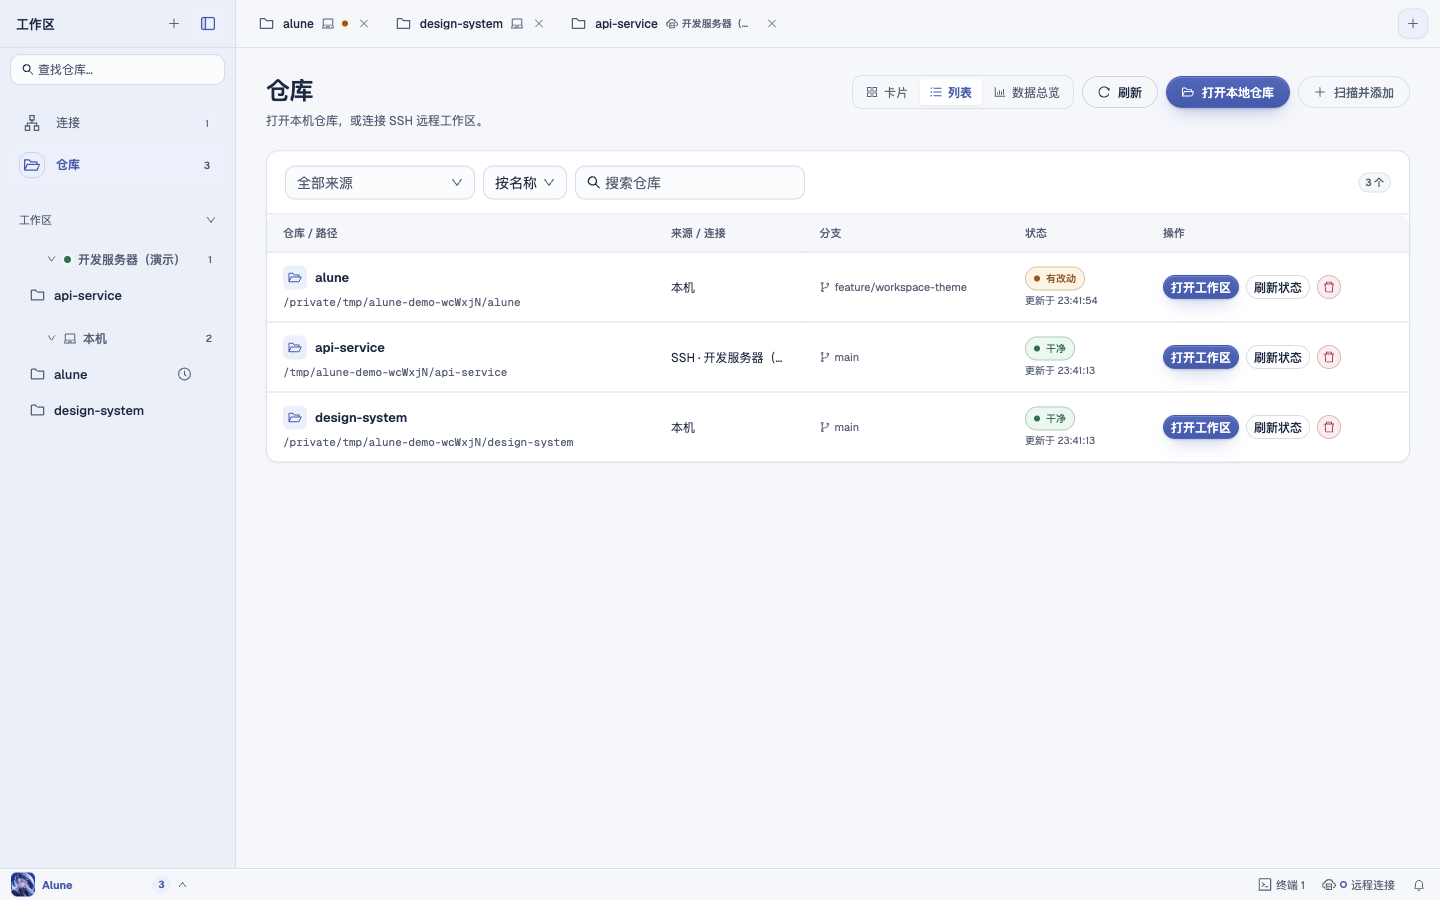
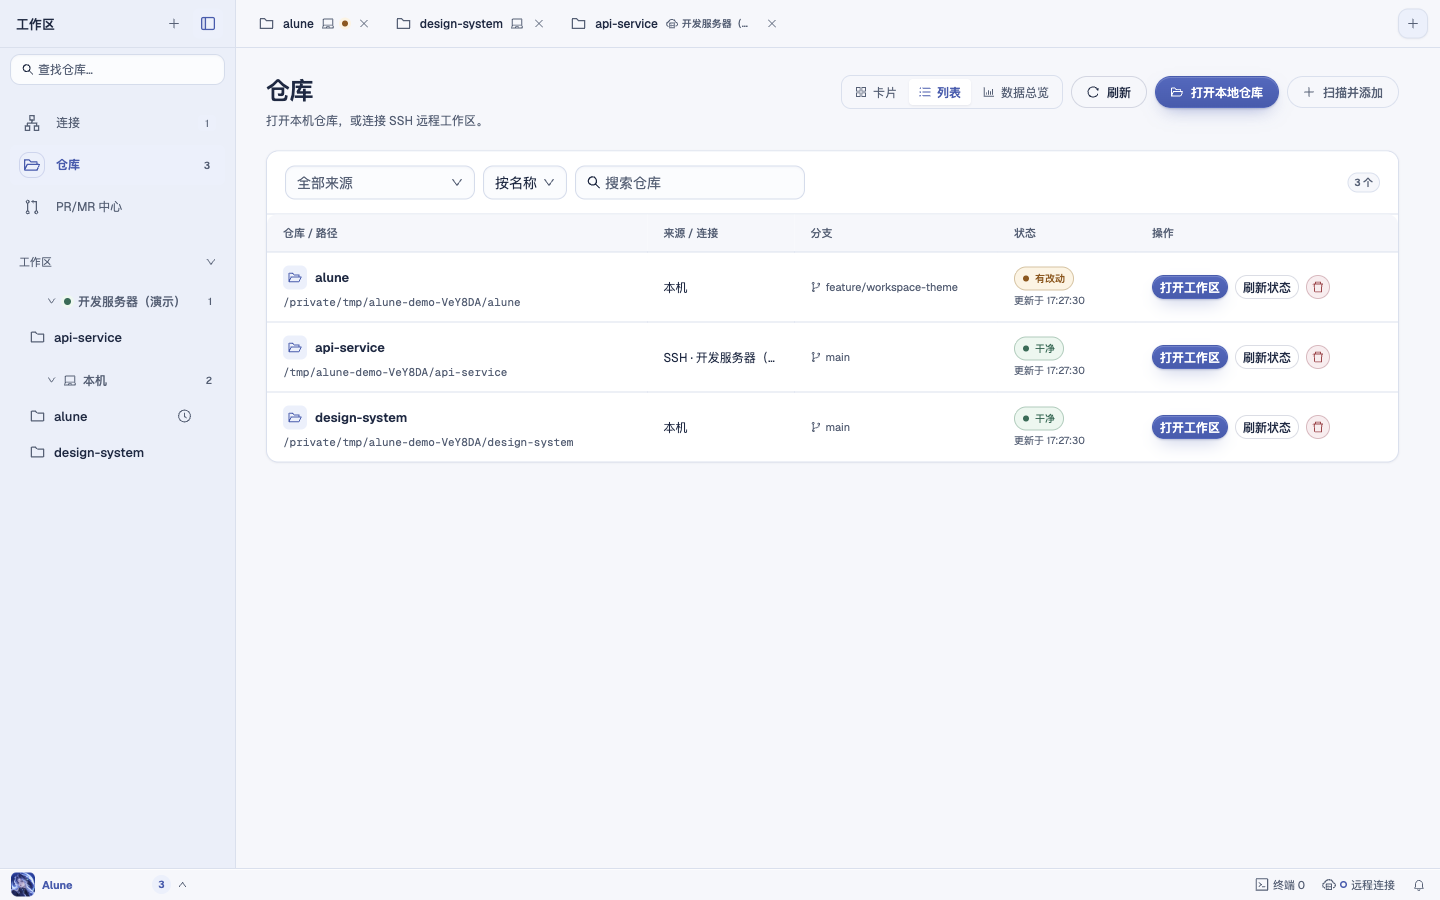
chore(release): 发布 v0.8.2 并更新官网与产品截图

diff --git a/apps/website/src/data/site.ts b/apps/website/src/data/site.ts
@@ -3,7 +3,7 @@ export const site = {
   name: 'Alune',
   title: 'Alune | 本地与 SSH 远程 Git 工作区',
   description:
-    '在桌面上，统一管理本地与 SSH 远程 Git 仓库。查看差异、暂存提交、浏览历史与 PR/MR，让日常 Git 工作留在同一个工作区。支持 macOS、Windows 和 Linux。',
+    '在桌面上，统一管理本地与 SSH 远程 Git 仓库。查看差异、暂存提交、浏览历史、处理冲突，通过 PR/MR 中心汇总已添加仓库的请求，创建与审阅协作变更。支持 macOS、Windows 和 Linux。',
   repository,
   download: `${repository}/releases/latest`,
   releases: `${repository}/releases`,

diff --git a/README.md b/README.md
@@ -9,7 +9,7 @@
 </p>
 
 <p align="center">
-  查看差异、暂存提交、浏览历史、审阅 PR/MR，再打开仓库终端继续工作。<br />
+  查看差异、暂存提交、浏览历史、跨仓库审阅 PR/MR 并在仓库内创建请求，再打开仓库终端继续工作。<br />
   支持 macOS、Windows 和 Linux；安装即用，无需安装 Node.js 或单独启动后端。
 </p>
 
@@ -23,75 +23,81 @@
   <a href="https://github.com/users/ShaoClean/projects/1">公开 TODO</a>
 </p>
 
-![Alune 0.7.0 浅色工作区：本机与 SSH 仓库标签、代码主题 Diff、暂存文件与提交区](https://raw.githubusercontent.com/wiki/ShaoClean/Alune/assets/readme-v0.7.0/workspace-light.png)
+![Alune 0.8.2 浅色工作区：本机与 SSH 仓库标签、代码主题 Diff、暂存文件与提交区](https://raw.githubusercontent.com/wiki/ShaoClean/Alune/assets/readme-v0.8.2/workspace-light.png)
 
 <p align="center">从文件差异到暂存与提交，在同一个 Git 工作区完成。</p>
 
 [Alune-UI 文档](https://shaoclean.github.io/Alune/ui/) · [共享组件源码](packages/ui/README.md)
 
-## 0.7.0 更新
+## 0.8.2 更新
 
-- **仓库终端**：在本地、SSH 仓库或关联 Worktree 的目录中打开交互式 shell；多会话、可调整面板、切换仓库后继续工作。
-- **更清晰的仓库身份**：工作区列表与标签共享紧凑的名称、来源及必要的短路径，详情可查看类型、分支和完整路径。
-- **更专注的 PR/MR 审阅**：重新整理列表、详情和操作区域，突出描述、文件差异与讨论。
+- **跨仓库 PR/MR 中心**：汇总已添加的本机与 SSH 仓库，按项目去重；筛选我创建的、请求我审阅、仓库、平台、账号和状态，在中心内继续审阅。
+- **更快的 SSH Diff**：加快远程文件差异预览，切换文件时取消过期读取；切换仓库标签后保留已选文件与差异状态。
+- **可靠的弹窗焦点**：重新打开高风险确认框时，确保默认焦点落在取消按钮。
+- **更清晰的差异阅读**：隐藏文本 Diff 中冗余的 Git 文件头，保留代码上下文和块、行操作。
 
-完整变更见 [v0.7.0 Release](https://github.com/ShaoClean/Alune/releases/tag/v0.7.0)。
+完整变更见 [v0.8.2 Release](https://github.com/ShaoClean/Alune/releases/tag/v0.8.2)。
 
 ## 核心功能
 
-| 功能                    | 能力与操作入口                                                                                                                                                                           |
-| ----------------------- | ---------------------------------------------------------------------------------------------------------------------------------------------------------------------------------------- |
-| **本地与 SSH 工作区**   | 打开本机 Git 仓库，或通过密码、私钥、SSH Agent 连接服务器并扫描登记仓库。本机与 SSH 共用差异、提交、历史和同步界面。                                                                     |
-| **文本与图片 Diff**     | 统一／分栏／全屏文本差异，支持按块、按行暂存／取消暂存／放弃，以及代码主题、字体与字号；PNG、JPEG、GIF、WebP 支持前后图片对比。未跟踪新文件无需暂存即可预览。                                                                |
-| **浏览文件**            | 按需加载目录树，以颜色和标记显示 Git 状态；只读预览带行号和高亮的代码、图片及 Markdown；逐行追溯作者和提交，支持跳转历史与父版本。右键提供适用的复制、暂存、取消暂存、放弃或删除等操作。 |
-| **暂存与提交**          | 分别展示未暂存、已暂存内容；填写摘要和可选描述，提交已准备好的文件。批量放弃前先预览范围，保留已暂存内容，删除未跟踪文件须另行确认。                                                     |
-| **分支与同步**          | 创建、切换、重命名、安全删除和合并分支；切换远程分支时创建或复用本地跟踪分支。工具条提供拉取、推送、获取远程更新及首次推送的上游设置。                                                   |
-| **Git 标签管理**        | 在分支页查看、搜索本地标签，从 HEAD 或历史提交创建轻量／附注标签，推送单个或全部标签，确认删除本地及远程标签，并从标签创建分支或检出。                                                   |
-| **历史与储藏**          | 提交图展示已获取的本地分支、远程跟踪分支与标签，滚动加载历史并查看提交 Diff；按信息、哈希、作者、时间、分支和路径筛选，查看跟踪重命名的文件历史；支持查看、创建、应用、弹出和删除储藏。  |
-| **PR / MR 协作**        | 应用内查看 GitHub PR、GitLab MR 的详情、文件差异、评论和代码讨论；权限允许时发表普通／行号评论、合并或关闭。支持命名访问令牌和 HTTPS 自建 GitLab。                                       |
-| **多标签与 Worktree**   | 标签可拖动排序、右键批量关闭，重启后恢复已打开仓库与顺序。本地可创建、打开和删除 Worktree；SSH 支持发现与打开已有 Worktree。                                                             |
-| **仓库终端**            | 工具条“终端”或 `Ctrl+反引号` 打开面板，点击“新建”启动 shell；每窗口最多 8 个会话，切换视图或关闭仓库标签仍保留会话。关闭会话与退出应用有确认。                                           |
-| **仓库数据总览**        | 仓库页可切换卡片、列表和总览，查看当前筛选范围的状态与活动数据；点击“采集统计”读取提交和语言统计，页面标注缓存时间与覆盖范围。                                                           |
-| **AI 提交信息（可选）** | 配置 OpenAI、Anthropic、Gemini、DeepSeek 或兼容服务，根据已暂存差异起草可编辑的摘要和描述，由你确认后提交。                                                                              |
-| **外观、布局与通知**    | 月光浅色／深色主题、跟随系统、减少动态效果；四款 Catppuccin 代码主题及 VS Code 主题 JSON／JSONC 导入；面板可隐藏、调宽，通知集中在底栏铃铛入口。                                         |
-| **网络代理与更新**      | 配置 HTTP、HTTPS 或 SOCKS5 供 AI、版本更新、SSH 及远端 Git 同步使用；桌面版可检查、下载更新并重启安装。                                                                                  |
+| 功能                    | 能力与操作入口                                                                                                                                                                                                         |
+| ----------------------- | ---------------------------------------------------------------------------------------------------------------------------------------------------------------------------------------------------------------------- |
+| **本地与 SSH 工作区**   | 打开本机 Git 仓库，或通过密码、私钥、SSH Agent 连接服务器并扫描登记仓库。本机与 SSH 共用差异、提交、历史和同步界面。                                                                                                   |
+| **文本与图片 Diff**     | 统一／分栏／全屏文本差异，支持按块、按行暂存／取消暂存／放弃，以及代码主题、字体与字号；PNG、JPEG、GIF、WebP 支持前后图片对比。未跟踪新文件无需暂存即可预览。                                                          |
+| **浏览文件**            | 按需加载目录树，以颜色和标记显示 Git 状态，被忽略的文件和目录显示为灰色；只读预览带行号和高亮的代码、图片及 Markdown；逐行追溯作者和提交，支持跳转历史与父版本。右键提供适用的复制、暂存、取消暂存、放弃或删除等操作。 |
+| **暂存与提交**          | 分别展示未暂存、已暂存内容；填写摘要和可选描述，提交已准备好的文件。批量放弃前先预览范围，保留已暂存内容，删除未跟踪文件须另行确认。                                                                                   |
+| **分支与同步**          | 创建、切换、重命名、安全删除和合并分支；切换远程分支时创建或复用本地跟踪分支。工具条提供拉取、推送、获取远程更新及首次推送的上游设置。                                                                                 |
+| **冲突与交互式变基**    | 处理合并、变基、拣选与还原中的冲突；选择一侧或编辑最终文本并暂存。通过可视化计划调整提交顺序、合并提交、修改信息或丢弃提交，冲突后可继续、跳过或中止变基。                                                             |
+| **提交签名**            | 配置 GPG 或 SSH 提交签名，在提交历史中查看验证状态；密钥与签名工具位于执行 Git 的本机或 SSH 主机。                                                                                                                     |
+| **子模块与 Git LFS**    | 查看子模块状态与提交指针差异，初始化、更新并打开子模块；识别 LFS 指针并预览已缓存图片，推送／拉取保留 LFS 流程和传输进度。                                                                                             |
+| **Git 标签管理**        | 在分支页查看、搜索本地标签，从 HEAD 或历史提交创建轻量／附注标签，推送单个或全部标签，确认删除本地及远程标签，并从标签创建分支或检出。                                                                                 |
+| **历史与储藏**          | 提交图展示已获取的本地分支、远程跟踪分支与标签，滚动加载历史并查看提交 Diff；按信息、哈希、作者、时间、分支和路径筛选，查看跟踪重命名的文件历史；支持查看、创建、应用、弹出和删除储藏。                                |
+| **PR / MR 协作**        | PR/MR 中心汇总已添加仓库的请求；在应用内查看详情、Diff 与讨论，按权限评论、审阅、合并或关闭。在仓库内创建同仓库 PR/MR，可选 AI 起草标题与描述。支持命名令牌与 HTTPS 自建 GitLab。                                      |
+| **多标签与 Worktree**   | 标签可拖动排序、右键批量关闭，重启后恢复已打开仓库与顺序。本地可创建、打开和删除 Worktree；SSH 支持发现与打开已有 Worktree。                                                                                           |
+| **仓库终端**            | 工具条“终端”或 `Ctrl+反引号` 打开面板，点击“新建”启动 shell；每窗口最多 8 个会话，切换视图或关闭仓库标签仍保留会话。关闭会话与退出应用有确认。                                                                         |
+| **仓库数据总览**        | 仓库页可切换卡片、列表和总览，查看当前筛选范围的状态与活动数据；点击“采集统计”读取提交和语言统计，页面标注缓存时间与覆盖范围。                                                                                         |
+| **AI 提交信息（可选）** | 配置 OpenAI、Anthropic、Gemini、DeepSeek 或兼容服务，根据已暂存差异起草可编辑的摘要和描述，由你确认后提交。                                                                                                            |
+| **外观、布局与通知**    | 月光浅色／深色主题、跟随系统、减少动态效果；四款 Catppuccin 代码主题及 VS Code 主题 JSON／JSONC 导入；面板可隐藏、调宽，通知集中在底栏铃铛入口。                                                                       |
+| **网络代理与更新**      | 配置 HTTP、HTTPS 或 SOCKS5 供 AI、版本更新、SSH 及远端 Git 同步使用；桌面版可检查、下载更新并重启安装。                                                                                                                |
 
-工作区按**标签栏 → 仓库工具条 → 内容区 → 底部状态栏**组织。改动视图的中央为 Diff，右侧为文件与提交区；终端停靠在中央内容区底部。工具条平铺“改动｜文件｜提交历史｜分支｜储藏｜远程｜PR/MR”，并提供终端、刷新和同步入口。底部“工作区导航”可切换仓库、管理连接及打开设置。
+工作区按**标签栏 → 仓库工具条 → 内容区 → 底部状态栏**组织。改动视图的中央为 Diff，右侧为文件与提交区；终端停靠在中央内容区底部。工具条平铺“改动｜文件｜提交历史｜分支｜储藏｜远程｜PR/MR”，并提供终端、刷新和同步入口。左侧主导航提供“连接”“仓库”和“PR/MR 中心”；底部“工作区导航”可切换仓库、管理连接及打开设置。
 
 <details>
 <summary><strong>查看深色工作区、文件阅读与提交历史</strong></summary>
 
-![Alune 0.7.0 深色工作区：代码主题 Diff、未暂存与已暂存分组、提交摘要和描述](https://raw.githubusercontent.com/wiki/ShaoClean/Alune/assets/readme-v0.7.0/workspace-dark.png)
+![Alune 0.8.2 深色工作区：代码主题 Diff、未暂存与已暂存分组、提交摘要和描述](https://raw.githubusercontent.com/wiki/ShaoClean/Alune/assets/readme-v0.8.2/workspace-dark.png)
 
-![Alune 文件阅读：Git 状态目录树与 Catppuccin Mocha 代码主题](https://raw.githubusercontent.com/wiki/ShaoClean/Alune/assets/readme-v0.7.0/files.png)
+![Alune 文件阅读：Git 状态目录树与 Catppuccin Mocha 代码主题](https://raw.githubusercontent.com/wiki/ShaoClean/Alune/assets/readme-v0.8.2/files.png)
 
-![Alune 提交历史：真实分支图、所选提交的文件与差异](https://raw.githubusercontent.com/wiki/ShaoClean/Alune/assets/readme-v0.7.0/history.png)
+![Alune 提交历史：真实分支图、所选提交的文件与差异](https://raw.githubusercontent.com/wiki/ShaoClean/Alune/assets/readme-v0.8.2/history.png)
 
 </details>
 
 <details>
 <summary><strong>查看仓库终端、PR/MR 审阅与仓库总览</strong></summary>
 
-![Alune 仓库终端：在演示仓库中执行 Git 命令，与 Diff 和提交区同时显示](https://raw.githubusercontent.com/wiki/ShaoClean/Alune/assets/readme-v0.7.0/terminal.png)
+![Alune 仓库终端：在演示仓库中执行 Git 命令，与 Diff 和提交区同时显示](https://raw.githubusercontent.com/wiki/ShaoClean/Alune/assets/readme-v0.8.2/terminal.png)
 
-![Alune PR/MR 审阅：应用内阅读合并请求详情、文件差异与讨论](https://raw.githubusercontent.com/wiki/ShaoClean/Alune/assets/readme-v0.7.0/pull-requests.png)
+![Alune PR/MR 中心：汇总已添加仓库的请求，按账号、平台与状态筛选](https://raw.githubusercontent.com/wiki/ShaoClean/Alune/assets/readme-v0.8.2/pull-request-center.png)
 
-![Alune 仓库列表：本机与 SSH 来源、仓库路径与状态](https://raw.githubusercontent.com/wiki/ShaoClean/Alune/assets/readme-v0.7.0/repositories.png)
+![Alune PR/MR 审阅：应用内阅读合并请求详情、文件差异与讨论](https://raw.githubusercontent.com/wiki/ShaoClean/Alune/assets/readme-v0.8.2/pull-requests.png)
 
-![Alune 仓库总览：状态分布、提交活动和语言统计](https://raw.githubusercontent.com/wiki/ShaoClean/Alune/assets/readme-v0.7.0/overview.png)
+![Alune 仓库列表：本机与 SSH 来源、仓库路径与状态](https://raw.githubusercontent.com/wiki/ShaoClean/Alune/assets/readme-v0.8.2/repositories.png)
+
+![Alune 仓库总览：状态分布、提交活动和语言统计](https://raw.githubusercontent.com/wiki/ShaoClean/Alune/assets/readme-v0.8.2/overview.png)
 
 </details>
 
 <details>
 <summary><strong>查看代码主题与网络代理设置</strong></summary>
 
-![Alune 代码阅读设置：代码主题、字体、字号及实时预览，同样应用于文本 Diff](https://raw.githubusercontent.com/wiki/ShaoClean/Alune/assets/readme-v0.7.0/code-appearance.png)
+![Alune 代码阅读设置：代码主题、字体、字号及实时预览，同样应用于文本 Diff](https://raw.githubusercontent.com/wiki/ShaoClean/Alune/assets/readme-v0.8.2/code-appearance.png)
 
-![Alune 网络代理设置：配置、生效范围及连接测试入口](https://raw.githubusercontent.com/wiki/ShaoClean/Alune/assets/readme-v0.7.0/network-proxy.png)
+![Alune 网络代理设置：配置、生效范围及连接测试入口](https://raw.githubusercontent.com/wiki/ShaoClean/Alune/assets/readme-v0.8.2/network-proxy.png)
 
 </details>
 
-截图与操作说明按 **v0.7.0** 更新，使用该版本的真实网页界面、临时 Git 仓库、本机测试 SSH 服务与演示数据；PR/MR 的托管平台响应为测试数据。终端截图来自启用认证的隔离服务，命令在演示仓库实际执行。桌面窗口边框、系统对话框以实际平台为准。[截图基线与采集说明](https://github.com/ShaoClean/Alune/wiki/README-Screenshots-v0.7.0)
+截图与操作说明按 **v0.8.2** 更新，使用该版本的真实网页界面、临时 Git 仓库、本机测试 SSH 服务与演示数据；PR/MR 的托管平台响应为测试数据。终端截图来自启用认证的隔离服务，命令在演示仓库实际执行。桌面窗口边框、系统对话框以实际平台为准。[截图基线与采集说明](https://github.com/ShaoClean/Alune/wiki/README-Screenshots-v0.8.2)
 
 ## 下载安装
 
@@ -125,6 +131,9 @@ AI 会把已暂存差异发送给你配置的服务，不启用 AI 也可使用 
 | 我想了解…                                | 入口                                                                                |
 | ---------------------------------------- | ----------------------------------------------------------------------------------- |
 | 布局、Diff、历史、PR/MR、Worktree 与终端 | [工作区使用说明](docs/workspace.md)                                                 |
+| PR/MR 中心、创建请求与 AI 起草           | [PR/MR 使用说明](docs/pull-requests.md)                                             |
+| 提交签名及历史验证状态                   | [提交签名说明](docs/commit-signing.md)                                              |
+| 子模块初始化与 Git LFS 预览、传输        | [子模块与 Git LFS](docs/submodules-lfs.md)                                          |
 | 安装更新、数据目录与桌面行为             | [桌面端说明](docs/desktop.md)                                                       |
 | AI 服务商、模型与密钥配置                | [AI 设置说明](docs/ai-settings.md)                                                  |
 | 代理设置、生效时机与远端 Git 转发        | [网络代理说明](docs/network-proxy.md)                                               |

diff --git a/apps/website/README.md b/apps/website/README.md
@@ -34,9 +34,9 @@ npm run website:preview
 
 ## 文案、截图与品牌资产
 
-文案按 [README](../../README.md)、[工作区说明](../../docs/workspace.md) 和稳定版核验，当前核对版本为 v0.7.0。新增描述时注意：SSH Worktree 仅支持发现和打开；代码主题、字体和字号同时用于文件与文本 Diff；AI 是可选功能，会把已暂存差异发给所配置的服务；代理覆盖范围见网络代理文档。
+文案按 [README](../../README.md)、[工作区说明](../../docs/workspace.md) 和稳定版核验，当前核对版本为 v0.8.2。新增描述时注意：SSH Worktree 仅支持发现和打开；代码主题、字体和字号同时用于文件与文本 Diff；PR/MR 中心只汇总已添加仓库的受支持远端；AI 是可选功能，提交起草发送已暂存差异，PR/MR 起草发送所选分支的提交、Diff 与模板；代理覆盖范围见网络代理文档。
 
-`src/assets/screenshots/` 的七张 PNG 均直接来自 [README-Screenshots-v0.7.0](https://github.com/ShaoClean/Alune/wiki/README-Screenshots-v0.7.0)，下载原址为 `https://raw.githubusercontent.com/wiki/ShaoClean/Alune/assets/readme-v0.7.0/<文件名>.png`：
+`src/assets/screenshots/` 的八张 PNG 均直接来自 [README-Screenshots-v0.8.2](https://github.com/ShaoClean/Alune/wiki/README-Screenshots-v0.8.2)，下载原址为 `https://raw.githubusercontent.com/wiki/ShaoClean/Alune/assets/readme-v0.8.2/<文件名>.png`：
 
 | 文件                                         | 展示内容                    |
 | -------------------------------------------- | --------------------------- |
@@ -46,8 +46,9 @@ npm run website:preview
 | `history.png`                                | 提交历史与分支图            |
 | `terminal.png`                               | 仓库终端与实际 Git 命令输出 |
 | `pull-requests.png`                          | PR/MR 应用内审阅            |
+| `pull-request-center.png`                    | 跨仓库 PR/MR 中心与筛选     |
 
-截图对应 v0.7.0（界面代码基线 `c322bbb`），使用临时仓库、本机测试 SSH 服务和演示数据，展示真实网页界面；PR/MR 托管平台响应为测试数据，终端使用认证隔离服务与真实演示仓库。桌面窗口边框与系统对话框以实际平台为准。版本与来源记录保留在本文，页面仅提供功能描述和替代文本；构建时输出多尺寸 WebP，首屏优先加载，其余延迟加载。它们是页面实际消费的产品素材，完整设计／验收记录仍维护在 Wiki。
+截图对应 v0.8.2（界面代码基线 `63d3759`），使用临时仓库、本机测试 SSH 服务和演示数据，展示真实网页界面；PR/MR 托管平台响应为测试数据，终端使用认证隔离服务与真实演示仓库。桌面窗口边框与系统对话框以实际平台为准。版本与来源记录保留在本文，页面仅提供功能描述和替代文本；构建时输出多尺寸 WebP，首屏优先加载，其余延迟加载。它们是页面实际消费的产品素材，完整设计／验收记录仍维护在 Wiki。
 
 头像源图为 `apps/desktop/assets/alune.png`，官网的 `public/favicon.png`（64px）、`public/brand.png`（144px）、`public/og-image.png`（1200×630）由以下命令派生：
 
